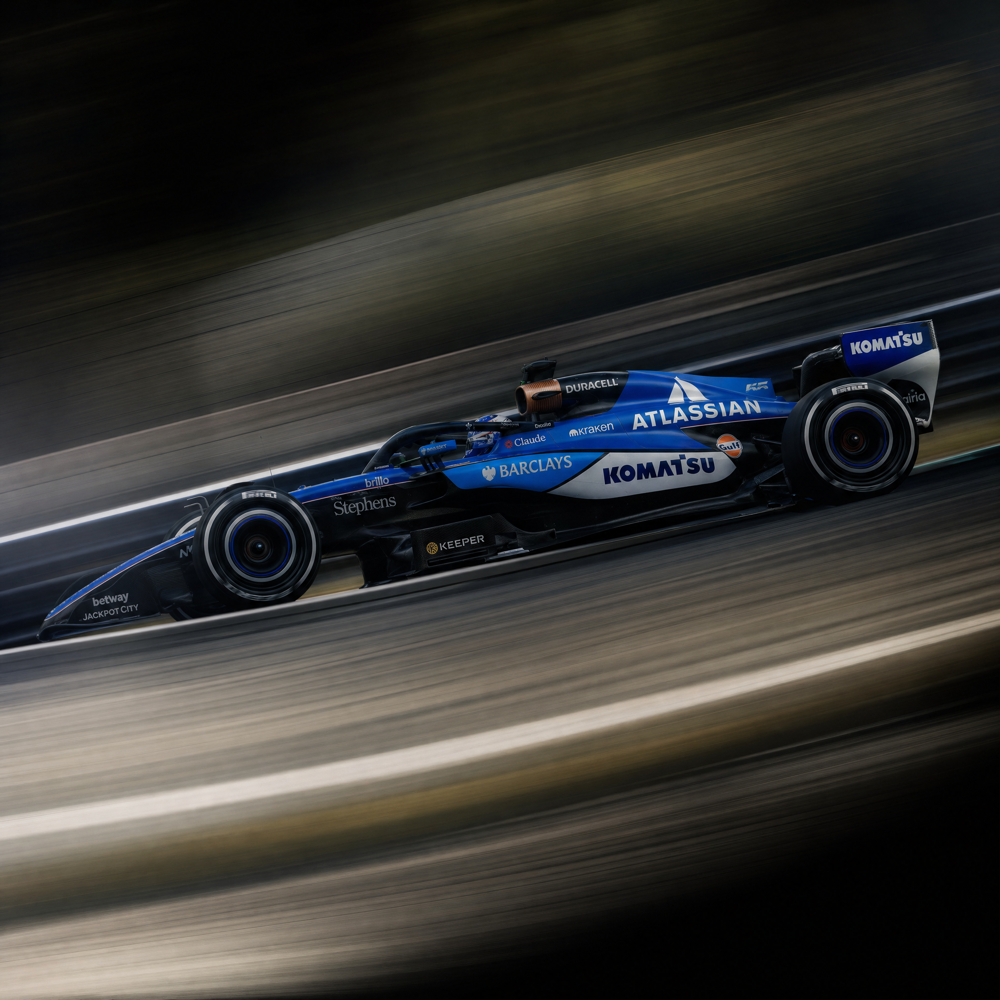
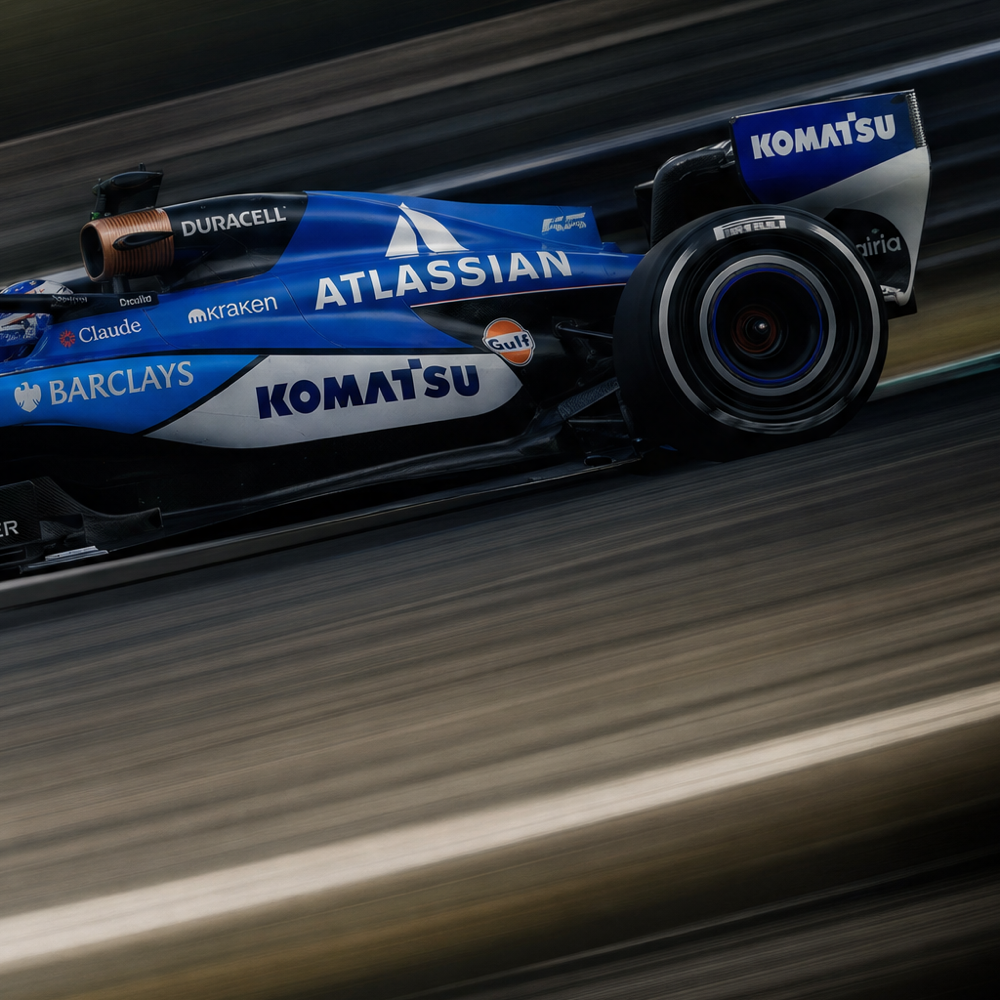
Fix Ideation Studio card showing no visible image
The original crop was a full-frame square of the action shot, which
is mostly black negative space (motion blur, night track) with the
car itself confined to a narrow diagonal band — on the card's dark
background it read as no image at all. Recropped tight around the
car body and livery so the card actually shows something.

diff --git a/ui_kits/pitch-deck/ix-slides-c.jsx b/ui_kits/pitch-deck/ix-slides-c.jsx
@@ -101,7 +101,7 @@ const IX_DECKS = [
     backLabel:'THE WILLIAMS SPARKPLUG STUDIO', head:'Every race, a cinematic recap',
     body:'After every race, the Williams SparkPlug Studio turns race data, footage and media into a cinematic, high-energy animation, made with Higgsfield in a style tailored to each fan. A bespoke summary of the team’s day, built for Williams’ channels.',
     tags:['Race data', 'Higgsfield', 'Stylised'] },
-  { n:'02', eyebrow:'DECK 02', name:'Ideation Studio', img:'assets/ideation-studio.png', bg:'center 38% / cover no-repeat', sub:'Ideation Studio gives Williams creative teams a streamlined way to ideate concepts and activations',
+  { n:'02', eyebrow:'DECK 02', name:'Ideation Studio', img:'assets/ideation-studio.png', bg:'center / cover no-repeat', sub:'Ideation Studio gives Williams creative teams a streamlined way to ideate concepts and activations',
     backLabel:'THE WILLIAMS IDEATION STUDIO', head:'From blank page to pitch-ready, in minutes',
     body:'A streamlined AI studio that helps Williams creative teams rapidly ideate, shape and pressure-test new concepts and activations, turning a rough brief into a pitch-ready direction in a fraction of the usual time.',
     tags:['Ideation', 'Concepts', 'Activations'] },
